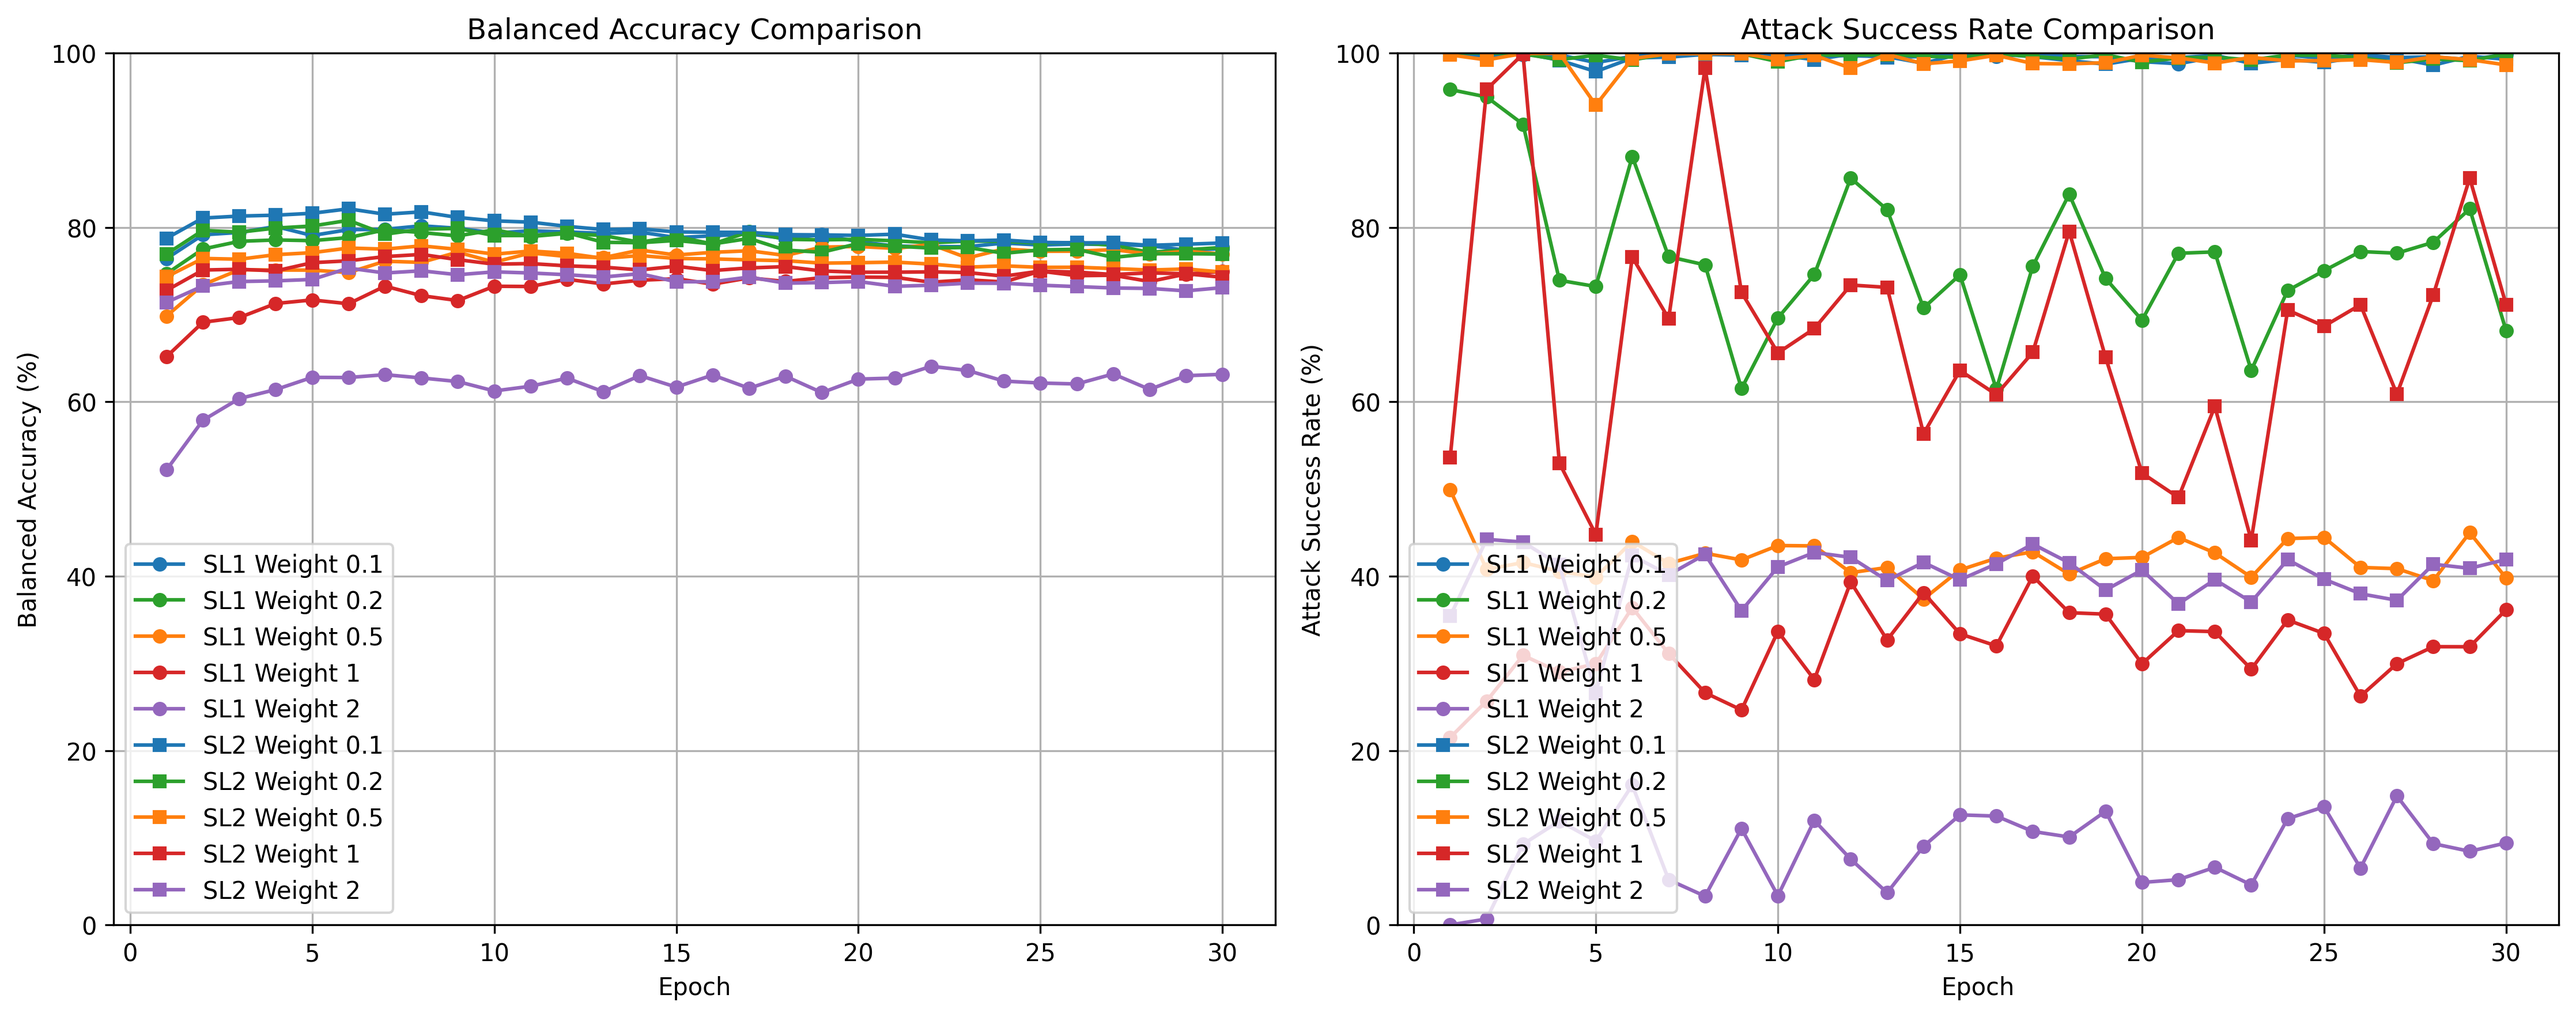
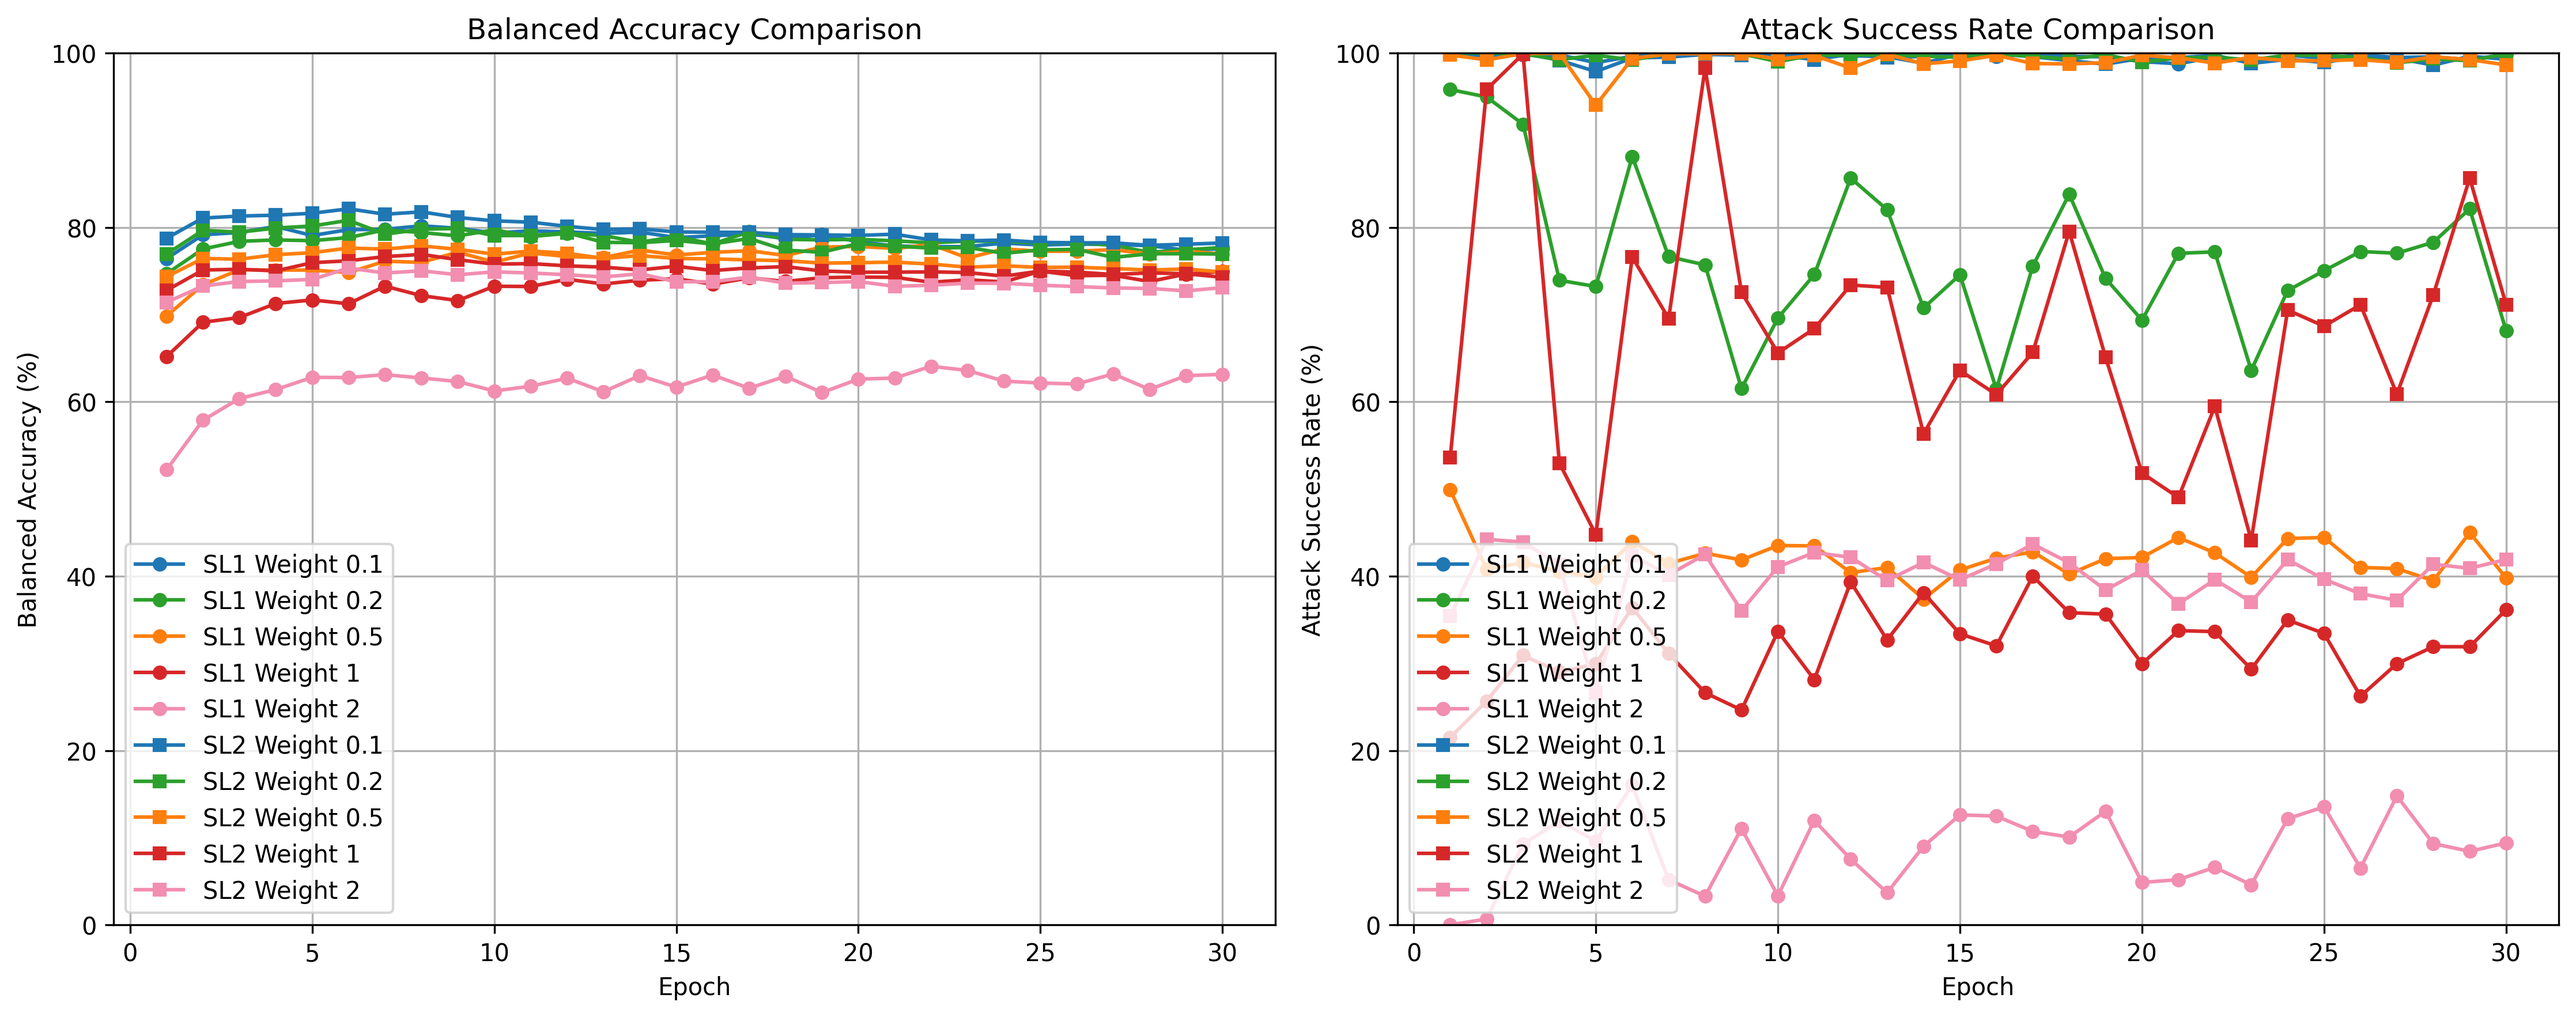
Adds the first and the second experiment

diff --git a/celeba/experiments/src/experiment_2/plot_comparison.py b/celeba/experiments/src/experiment_2/plot_comparison.py
@@ -59,7 +59,7 @@ def plot_comparison():
         '2': '#2ca02c',  # Green
         '5': '#ff7f0e',  # Orange
         '10': '#d62728', # Red
-        '20': '#9467bd'  # Purple
+        '20': '#F28EAF'  # Purple
     }
     
     model_markers = {
